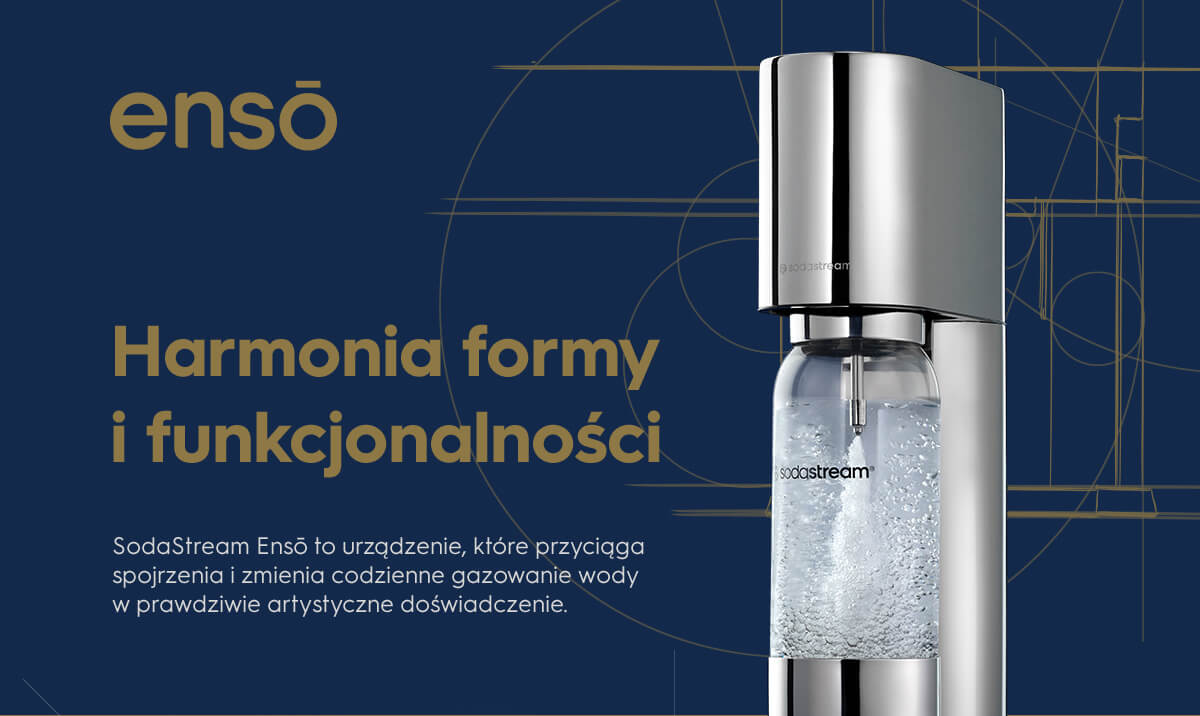
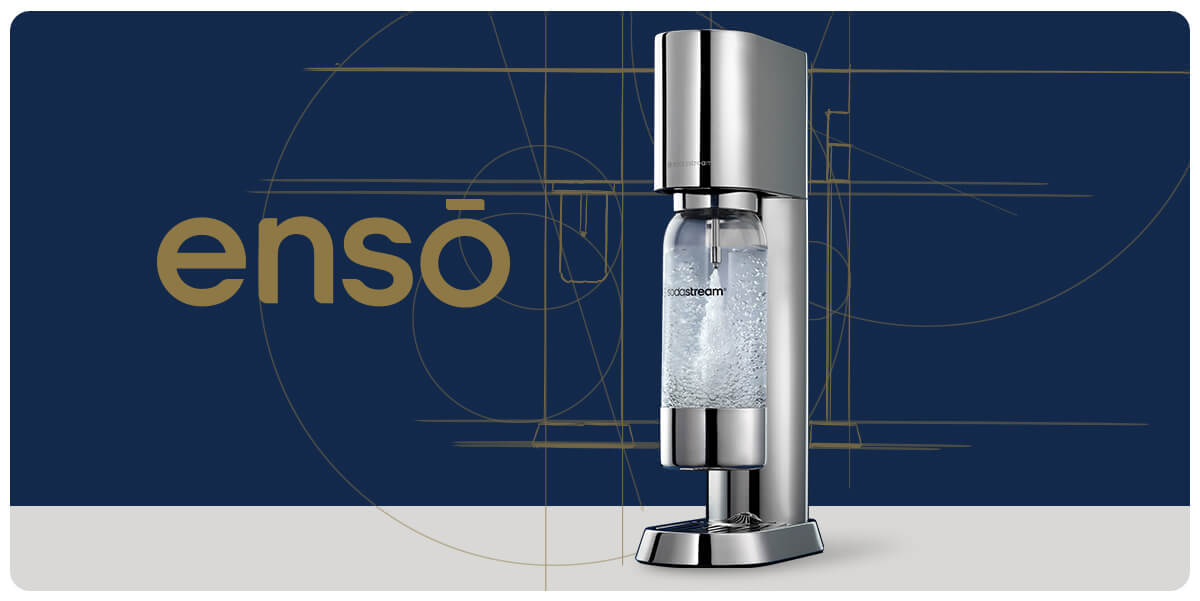
feat: add new markup

diff --git a/index.html b/index.html
@@ -1,101 +1,271 @@
 <!--mod-1-->
 <div class="col-3-3 center col-no-pad"
-     style="background: #13294b">
+     style="background: #ffffff">
      <img class="non-radius col-no-pad"
-          src="https://media.komputronik.pl/pl-komputronik/img/opisy_produktow/content/sodastream/SodaStream_Enso/kv-packshot.jpg"
+          src="http://localhost:8000/images/kv-packshot.jpg"
           alt="" />
 </div>
 <!--mod-1 koniec-->
 
 <!--mod-2-->
-<div class="col-3-3 center col-no-pad"
-     style="background: #13294b">
-     <div class="col-3-3 center col-no-pad"
-          style="background: #13294b">
+<div class="col-3-3"
+     style="background: #ffffff">
+     <div class="col-2-4 left center">
+          <h3 class="left size-6"
+              style="color: #000000">
+               HARMONIA FORMY I FUNKCJONALNOŚCI
+          </h3>
+          <p class="size-4 left"
+             style="color: #000000">
+               SodaStream Ensō to urządzenie, które przyciąga spojrzenia i zmienia codzienne gazowanie wody w prawdziwie
+               artystyczne
+               doświadczenie.
+               <br><br>
+               <b>Design na miarę sztuki użytkowej</b><br>
+               Inspirowany japońskim minimalizmem projekt autorstwa Naoto Fukasawy to nie tylko funkcjonalny saturator
+               wody, ale także
+               ozdoba każdej kuchni. Wyrafinowane kształty i harmonia detali sprawiają, że Ensō doskonale wpisuje się w
+               nowoczesne
+               wnętrza, także w styl glamour lub industrialny.
+               <br><br>
+               <b>Stwórz napój, który Cię inspiruje</b><br>
+               Ensō to coś więcej niż saturator. To urządzenie, które uprzyjemnia codzienne chwile i inspiruje do
+               tworzenia nowych,
+               orzeźwiających napojów. Łączy wygodę z funkcjonalnością, zmieniając sposób picia wody.
+          </p>
+     </div>
+     <div class="col-2-4 left">
           <img class="non-radius"
-               src="https://media.komputronik.pl/pl-komputronik/img/opisy_produktow/content/sodastream/SodaStream_Enso/syroup-set.jpg"
-               alt="" />
+               src="http://localhost:8000/images/MOD-02.jpg"
+               loading="lazy">
      </div>
 </div>
 <!--mod-2 koniec-->
 
 <!--mod-3-->
-<div class="col-3-3 center col-no-pad"
-     style="background: #13294b">
-     <img class="non-radius"
-          src="https://media.komputronik.pl/pl-komputronik/img/opisy_produktow/content/sodastream/SodaStream_Enso/img-syroups.jpg"
-          alt="" />
+<div class="col-3-3"
+     style="background: #ffffff">
+     <div class="col-2-4 left">
+          <img class="non-radius"
+               src="http://localhost:8000/images/MOD-03.jpg"
+               loading="lazy">
+     </div>
+     <div class="col-2-4 left center">
+          <h3 class="left size-6"
+              style="color: #000000">
+               EKSKLUZYWNOŚĆ W KAŻDYM CALU
+          </h3>
+          <p class="size-4 left"
+             style="color: #000000">
+               <b>Dla wymagających użytkowników</b><br>
+               Ensō to idealny wybór dla osób, które cenią połączenie estetyki i funkcjonalności. Jego nowoczesny design
+               i zastosowane
+               technologie sprawiają, że korzystanie z niego jest czystą przyjemnością.
+               <br><br>
+               <b>Bottle Snap & Lock</b> – Prosty montaż na "Klik"<br>
+               Łatwe i intuicyjne mocowanie butelki w ekspresie umożliwia jej zabezpieczenie oraz wyjęcie jednym ruchem.
+               <br><br>
+               <b>Quick Connect</b> – Błyskawiczna instalacja cylindra CO₂<br>
+               System Quick Connect i wysuwana komora pozwalają na prosty montaż cylindra bez wkręcania.
+               <br><br>
+               <b>Stal Nierdzewna</b> – Trwałość na lata<br>
+               Wykonane z wytrzymałej stali nierdzewnej elementy zapewniają długoletnią trwałość i łatwość w utrzymaniu
+               czystości.
+          </p>
+     </div>
+
 </div>
 <!--mod-3 koniec-->
 
 <!--mod-4-->
 <div class="col-3-3"
-     style="background: #13294b">
-     <div class="col-1-3 top">
-          <img src="https://media.komputronik.pl/pl-komputronik/img/opisy_produktow/content/sodastream/SodaStream_Enso/step-1.png"
-               alt="" />
+     style="background: #ffffff">
+     <div class="col-2-4 left top">
+          <div class="separator tall"></div>
+          <h3 class="left size-6"
+              style="color: #000000">
+               STYLOWA BUTELKA WYKONANA Z TRITANU
+          </h3>
+          <p class="size-4"
+             style="color: #000000">
+               Z SodaStream Ensō zyskujesz nie tylko saturator, ale także wyjątkową butelkę zaprojektowaną z myślą o
+               funkcjonalności i
+               estetyce.
+               <br><br>
+               <b>Materiał, który robi różnicę</b><br>
+               Butelka została wykonana z wytrzymałego Tritanu, który charakteryzuje się odpornością na zarysowania,
+               odkształcenia i
+               działanie wysokich temperatur. To doskonałe rozwiązanie na co dzień – trwałe, a jednocześnie bezpieczne,
+               ponieważ Tritan
+               nie zawiera szkodliwego BPA.
+               <br><br>
+               <b>Łatwa w utrzymaniu czystości</b><br>
+               Odłączana podstawa i możliwość mycia w zmywarce sprawiają, że butelka jest nie tylko praktyczna, ale
+               także niezwykle
+               higieniczna. Dzięki temu zawsze pozostaje czysta i gotowa na kolejne orzeźwiające napoje.
+               <br><br>
+               <b>Elegancja w każdym detalu</b><br>
+               Butelka zdobiona jest połyskującymi wykończeniami ze stali nierdzewnej, nadającymi jej wyjątkowy
+               charakter. Pojemność 1
+               litra sprawia, że doskonale sprawdzi się w każdej sytuacji – zarówno na siłowni lub spacerze, jak również
+               do serwowania
+               napojów podczas rodzinnych spotkań.
+          </p>
      </div>
-     <div class="col-1-3 top">
-          <img src="https://media.komputronik.pl/pl-komputronik/img/opisy_produktow/content/sodastream/SodaStream_Enso/step-2.png"
-               alt="" />
-     </div>
-     <div class="col-1-3 top">
-          <img src="https://media.komputronik.pl/pl-komputronik/img/opisy_produktow/content/sodastream/SodaStream_Enso/step-3.png"
-               alt="" />
+     <div class="col-2-4 left">
+          <img class="non-radius"
+               src="http://localhost:8000/images/MOD-04.jpg"
+               loading="lazy">
      </div>
 </div>
 <!--mod-4 koniec-->
 
 <!--mod-5-->
-<div class="col-3-3 center col-no-pad"
-     style="background: #13294b">
-     <img class="non-radius"
-          src="https://media.komputronik.pl/pl-komputronik/img/opisy_produktow/content/sodastream/SodaStream_Enso/style.jpg"
-          alt="" />
+<div class="col-3-3"
+     style="background: #ffffff">
+     <div class="col-2-4 left">
+          <img class="non-radius"
+               src="http://localhost:8000/images/MOD-05.jpg"
+               loading="lazy">
+     </div>
+     <div class="col-2-4 left center">
+          <h3 class="left size-6"
+              style="color: #000000">
+               WYBIERAJ EKOLOGICZNE ROZWIĄZANIA
+          </h3>
+          <p class="size-4 left"
+             style="color: #000000">
+               SodaStream Ensō to mały krok w stronę wielkich zmian dla środowiska, a jednocześnie idealne rozwiązanie
+               dla osób, które
+               chcą działać na rzecz ekologii bez rezygnacji z wygody.
+
+               <br><br>
+               <b>Bądź eko bez zbędnego wysiłku</b>
+               <br><br>
+               Każda wielorazowa butelka SodaStream zastępuje setki jednorazowych plastikowych butelek. Dodatkowo
+               pozwala zaoszczędzić
+               czas i pieniądze! Zrezygnuj z kupowania i dźwigania ciężkich zgrzewek z napojami gazowanymi - zacznij
+               kreować je w domu,
+               jak chcesz i kiedy chcesz!
+          </p>
+     </div>
+
 </div>
 <!--mod-5 koniec-->
 
 <!--mod-6-->
-<div class="col-3-3 center col-no-pad"
-     style="background: #13294b">
-     <img class="non-radius"
-          src="https://media.komputronik.pl/pl-komputronik/img/opisy_produktow/content/sodastream/SodaStream_Enso/eko.jpg"
-          alt="" />
+<div class="col-3-3 left"
+     style="background: #ffffff">
+     <h3 class="left size-6"
+         style="color: #000000">
+          GAZUJ, MIKSUJ, CIESZ SIĘ SMAKIEM!
+     </h3>
+     <p class="left"
+        style="color: #000000">
+          Tworzenie idealnych napojów gazowanych nigdy nie było prostsze. Z SodaStream Ensō możesz szybko przygotować
+          coś
+          pysznego, dostosowanego&nbsp;do&nbsp;Twoich&nbsp;preferencji.
+          <br><br>
+          <b>Jak to działa?</b>
+          <br><br>
+          <b>gazuj </b>- Wlej zimną wodę do butelki SodaStream i dodaj bąbelki.
+          <br><br>
+          <b>miksuj </b>- Dodaj ulubione składniki – od syropów po owoce i zioła.
+          <br><br>
+          <b>smakuj </b> - Delektuj się pysznym, świeżym napojem, stworzonym dokładnie tak, jak lubisz!
+          <br><br>
+          <b>Kreatywność w Twoich rękach</b>
+          <br><br>
+          Ensō daje Ci pełną swobodę w tworzeniu napojów, od klasycznych gazowanych kompozycji po owocowe, finezyjne
+          koktajle.
+          Prosto, szybko i dokładnie&nbsp;tak,&nbsp;jak&nbsp;chcesz.
+     </p>
 </div>
 <!--mod-6 koniec-->
 
 <!--mod-7-->
 <div class="col-3-3 center col-no-pad"
-     style="background: #13294b">
+     style="background: #ffffff">
      <img class="non-radius"
-          src="https://media.komputronik.pl/pl-komputronik/img/opisy_produktow/content/sodastream/SodaStream_Enso/mix.jpg"
+          src="http://localhost:8000/images/MOD-07.jpg"
           alt="" />
 </div>
 <!--mod-7 koniec-->
 
 <!--mod-8-->
-<div class="col-3-3 center col-no-pad"
-     style="background: #13294b">
-     <img class="non-radius"
-          src="https://media.komputronik.pl/pl-komputronik/img/opisy_produktow/content/sodastream/SodaStream_Enso/coctails.jpg"
-          alt="" />
+<div class="col-3-3 center"
+     style="background: #ffffff">
+     <h3 class="left size-6"
+         style="color: #000000">
+          PERFEKCYJNE KOKTAJLE I MOKTAJLE NA 1, 2, TSSST!
+     </h3>
+     <p class="left"
+        style="color: #000000">
+          SodaStream Crafted to linia bezalkoholowych syropów, która otwiera przed Tobą świat nowych smaków i
+          możliwości. Bez
+          wiedzy barmańskiej samodzielnie przygotujesz pyszne moktajle i wyjątkowe drinki.
+          <br><br>
+          <b>Poznaj nietypowe kompozycje smakowe:
+          </b>
+          <br><br>
+          <b>Ananas & Jalapeño: </b>Unikalne połączenie smaków tropikalnego ananasa i ognistego jalapeño, które rozpali
+          wszystkie zmysły.<br>
+          <b>Grejpfrut & Czarny Bez: </b>Wyrafinowana kompozycja smaków soczystego grejpfruta i romantycznych kwiatów
+          czarnego
+          bzu
+          oczaruje Twoich gości.<br>
+          <b>Brzoskwinia & Imbir: </b>Owocny mariaż smaków słodkiej brzoskwini z pikantnym imbirem zachwyca balansem i
+          przyjemnie
+          orzeźwia.
+          <br><br>
+          <b>Łatwość przygotowania</b>
+          <br><br>
+          Z Ensō tworzenie własnych napojów jest proste i przyjemne! Wystarczy nagazować wodę za pomocą saturatora,
+          dodać syrop
+          Crafted i ulubione składniki, aby cieszyć się wyjątkowym smakiem.
+     </p>
 </div>
 <!--mod-8 koniec-->
 
 <!--mod-9-->
 <div class="col-3-3 center col-no-pad"
-     style="background: #13294b">
+     style="background: #ffffff">
      <img class="non-radius"
-          src="https://media.komputronik.pl/pl-komputronik/img/opisy_produktow/content/sodastream/SodaStream_Enso/bottles.jpg"
+          src="http://localhost:8000/images/MOD-09.jpg"
           alt="" />
 </div>
 <!--mod-9 koniec-->
 
 <!--mod-10-->
-<div class="col-3-3 col-no-pad center"
-     style="background: #13294b">
-     <img class="non-radius"
-          src="https://media.komputronik.pl/pl-komputronik/img/opisy_produktow/content/sodastream/SodaStream_Enso/syroup.jpg"
-          alt="" />
+<div class="col-3-3 center"
+     style="background: #ffffff">
+     <h3 class="left size-6"
+         style="color: #000000">
+          JEDNA SODASTREAM – WIELE MOŻLIWOŚCI
+     </h3>
+     <p class="left"
+        style="color: #000000">
+          Szeroka gama klasycznych syropów SodaStream pozwala odkrywać ulubione smaki na nowo. To idealne rozwiązanie
+          dla każdego,
+          kto lubi klasykę, ale nie chce zamykać się na nowe doznania.
+          <br><br>
+          <b>Wybierz swoje ulubione smaki:
+          </b>
+          <br>
+          Klasyczną Colę, orzeźwiającą Lemoniadę, Owoce Leśne lub Marakuję!<br><br>
+          <b>Personalizacja napojów</b><br>
+          Dzięki SodaStream możesz eksperymentować ze smakami i tworzyć napoje dokładnie
+          tak, jak lubisz. Wybierz klasykę lub
+          zaszalej z owocowymi wariantami – możliwości są nieograniczone.
+     </p>
 </div>
 <!--mod-10 koniec-->
+
+<!--mod-11-->
+<div class="col-3-3 center col-no-pad"
+     style="background: #ffffff">
+     <img class="non-radius"
+          src="http://localhost:8000/images/MOD-11.jpg"
+          alt="" />
+</div>
+<!--mod-11 koniec-->
